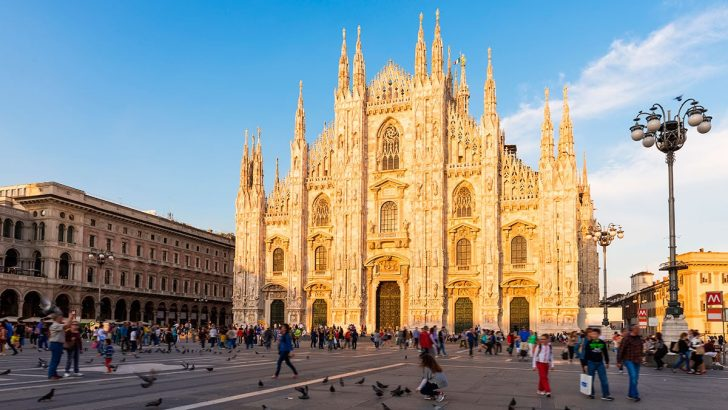
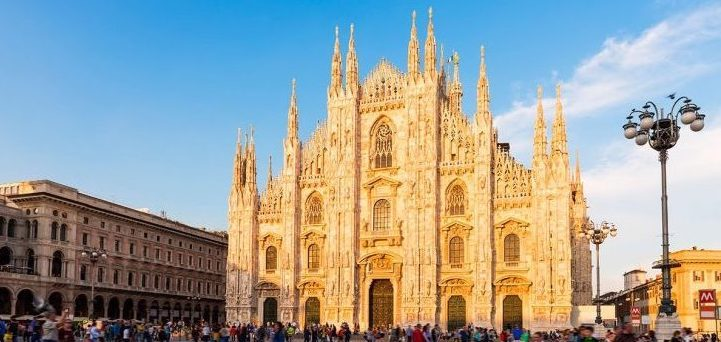
day seven

diff --git a/dayseven.html b/dayseven.html
@@ -47,11 +47,11 @@
 			</div>
 
 			<div class="day">
-			<h3><a href="#daysix">Day Six </a><br>Mon 31st Dec <br>Amsterdam</h3>
+			<h3><a href="daysix.html#daysix">Day Six </a><br>Mon 31st Dec <br>Amsterdam</h3>
 			</div>
 		
 			<div class="day">
-			<h3><span class="notyet">Day Seven </span><br>Tues 1st Jan <br>Amsterdam to Milan</h3>
+			<h3><a href="#dayseven">Day Seven </a><br>Tues 1st Jan <br>Amsterdam to Milan</h3>
 			</div>
 
 			<div class="day">
@@ -79,100 +79,57 @@
 
 	<div class="photos">
 
-  		<!-- Day Six Photos -->
+  		<!-- Day Seven Photos -->
 
         <br>
         
-        <h2 id="daysix">Day Six - Part Une</h2>
+        <h2 id="dayseven">Day Seven</h2>
 
-            <div class="gallery ib">                                                
-            <a target="_blank" href="resources/daysix/IMG_1364.JPG">
-            <img src="resources/daysix/IMG_1364.JPG" alt="Flower Market">
-            </a>
-            <div class="desc">There are flower market stalls everywhere.</div>
-            </div>
-
-            <div class="gallery ib">                                                
-            <a target="_blank" href="resources/daysix/IMG_1365.JPG">
-            <img src="resources/daysix/IMG_1365.JPG" alt="Amsterdam Canal View">
-            </a>
-            <div class="desc">Canalside view</div>
-            </div>
-
-            <div class="gallery ib">                                                
-            <a target="_blank" href="resources/daysix/IMG_1366.JPG">
-            <img src="resources/daysix/IMG_1366.JPG" alt="Amsterdam Street">
-            </a>
-            <div class="desc">Amsterdam streets</div>
-            </div>
-
-            <div class="gallery ib">                                                
-            <a target="_blank" href="resources/daysix/IMG_1370.JPG">
-            <img src="resources/daysix/IMG_1370.JPG" alt="Amsterdam Ducks">
-            </a>
-            <div class="desc">Found these two sneaking around a sinking boat.</div>
-            </div>
-
-            <div class="gallery ib">                                                
-            <a target="_blank" href="resources/daysix/IMG_1367.JPG">
-            <img src="resources/daysix/IMG_1367.JPG" alt="Amsterdam Street">
-            </a>
-            <div class="desc">Beautiful appartments</div>
-            </div>
-  	
-            <div class="gallery ib">                                                
-            <a target="_blank" href="resources/daysix/IMG_1371.JPG">
-            <img src="resources/daysix/IMG_1371.JPG" alt="Home Street">
-            </a>
-            <div class="desc">Our street</div>
-            </div>
-
-            <div class="gallery ib">                                                
-            <a target="_blank" href="resources/daysix/IMG_1374.JPG">
-            <img src="resources/daysix/IMG_1374.JPG" alt="Graffiti">
-            </a>
-            <div class="desc">Aliens R Real</div>
-            </div>
-
-            <div class="gallery ib">                                                
-            <a target="_blank" href="resources/daysix/IMG_1377.JPG">
-            <img src="resources/daysix/IMG_1377.JPG" alt="Mosaic Bunny">
-            </a>
-            <div class="desc">Mosaic bunny</div>
-            </div>
-
-            <div class="gallery ib">                                                
-            <a target="_blank" href="resources/daysix/IMG_1378.JPG">
-            <img src="resources/daysix/IMG_1378.JPG" alt="Ice Skating">
-            </a>
-            <div class="desc">Ice Skating</div>
-            </div>
-
-            <div class="gallery ib">                                                
-            <a target="_blank" href="resources/daysix/IMG_1379.JPG">
-            <img src="resources/daysix/IMG_1379.JPG" alt="Brian">
-            </a>
-            <div class="desc">I spy Brian</div>
-            </div>
-
-            <div class="gallery ib">                                                
-            <a target="_blank" href="resources/daysix/IMG_1381.JPG">
-            <img src="resources/daysix/IMG_1381.JPG" alt="Seasons Greetings">
-            </a>
-            <div class="desc">Seasons Greetings</div>
-            </div>
-
-        <h2 id="NYE">Day Six - Part Deux - New Year's Eve</h2>
-
-            <div class="gallery ib">                                                
-            <a target="_blank" href="resources/daysix/IMG_1388.JPG">
-            <img src="resources/daysix/IMG_1388.JPG" alt="Ice Skating">
-            </a>
-            <div class="desc">Ice Skating</div>
-            </div>
 
             <div class="gallery ib"> 
             <iframe src="https://giphy.com/embed/LXfuEfYuPCXtaHCo6S" width="360" height="480" frameBorder="0" class="giphy-embed" allowFullScreen></iframe><div class="desc">Ready to go!</div></div>
+
+            <div class="gallery ib">
+            <a target="_blank" href="resources/dayseven/IMG_1410.JPG">
+            <img src="resources/dayseven/IMG_1410.JPG" alt="Swiss Alps">
+            </a>
+            <div class="desc">Flying over the Swiss Alps</div>
+            </div>
+
+            <div class="gallery ib">
+            <a target="_blank" href="resources/dayseven/IMG_1443.JPG">
+            <img src="resources/dayseven/IMG_1443.JPG" alt="Italian Restaurant">
+            </a>
+            <div class="desc">Finding a hidden gem.</div>
+            </div>
+
+            <div class="gallery ib">
+            <a target="_blank" href="resources/dayseven/IMG_1445.JPG">
+            <img src="resources/dayseven/IMG_1445.JPG" alt="Italian Restaurant">
+            </a>
+            <div class="desc">The specials</div>
+            </div>
+
+            <div class="gallery ib">
+            <a target="_blank" href="resources/dayseven/IMG_1437.JPG">
+            <img src="resources/dayseven/IMG_1437.JPG" alt="Italian Restaurant">
+            </a>
+            <div class="desc">An Italian dinner</div>
+            </div>
+
+            <div class="gallery ib">
+            <a target="_blank" href="resources/dayseven/IMG_1438.JPG">
+            <img src="resources/dayseven/IMG_1438.JPG" alt="Italian Restaurant">
+            </a>
+            <div class="desc">Cosy restaurant</div>
+            </div>
+
+            <div class="gallery ib">
+            <a target="_blank" href="resources/dayseven/IMG_1440.JPG">
+            <img src="resources/dayseven/IMG_1440.JPG" alt="Italian Pizza">
+            </a>
+            <div class="desc">The pizza to end all pizza.</div>
+            </div>
 
 	</div>	
 	<br>

diff --git a/index.html b/index.html
@@ -60,7 +60,7 @@
 			</div>
 		
 			<div class="day">
-			<h3><span class="notyet">Day Seven </span><br>Tues 1st Jan <br>Amsterdam to Milan</h3>
+			<h3><a href="#dayseven">Day Seven </a><br>Tues 1st Jan <br>Amsterdam to Milan</h3>
 			</div>
 
 			<div class="day">
@@ -212,6 +212,8 @@
 
   		<p class="daysix">A few photos <a href="daysix.html#daysix">here</a>. Stay tuned for Part Deux.</p>
 
+  		<br>
+
   		<h2 id="daysix">Day Six - Part Deux - New Year's Eve</h2>
 
   		<div class="gallery left">
@@ -221,15 +223,34 @@
   		<div class="desc">Ice Skating!</div>
   		</div>
 
+  		<br>
   		<p class="daysix">This day really needed to be split into two, as we came home, had a nap, got changed and then got ready for the proceedings in the evening. Fireworks have been geting progressively more constant. We decide to just walk into the centre as Amsterdam public transport stops at 8pm on New Year's Eve. This is absolutely baffling to me because in London NYE is the one night of the year that transport is free and it runs all night to ensure that people get home safely. In Amsterdam they seem to take the opposite approach, let everyone buy fireworks for 3 days only and do not get involved with the goings on in the street. People are letting off fireworks everywhere, <a target="_blank" href="resources/daysix/IMG_1428.JPG">there are small fires in the street</a>, there don't seem to be any "organised" displays, just a cacophony of pops and bangs from every street.</p>
   		<p class="daysix"> We walk into Museumplein (a large square in the centre) catching Pokémon en route, when we get there we see the ice skating rink that we saw earlier, this time Brian actually obliges and I am delighted to go whizzing round the rink at 11.30pm on New Year's Eve, surprisingly it's not too busy (I think most people know their limits and the drunk onlookers don't think they can handle their drink <em>and</em> their ice skates. Brian and I were off to a shaky start, we could hardly balance but I quickly found my feet and <a target="_blank" href="resources/daysix/IMG_1391 copy.JPG">Brian quickly found a chair</a> !! The second he got this chair he sped off as fast as lightning, I still cannot believe that a chair completely turned around his ice skating experience. This was a great way to spend the evening.</p>
-  		<p class="daysix">We eventually tire of the skating and turn to the crowds for the last few minutes to get ready for the fireworks, it is absolute chaos, the fireworks didn't really have a start or end time (I have no doubt that they're still happening) and they sprung up from every possible angle. It was fun, the walk back to our flat was a little scary as the fireworks were just going off in every direction but we made it home eventually. It was the perfect end to our Amsterdam trip, ready to pack for Milan tomorrow.</p>
+  		<p class="daysix">We eventually tire of the skating and turn to the crowds for the last few minutes to get ready for the fireworks, it is absolute chaos, the fireworks didn't really have a start or end time (I have no doubt that they're still happening) and they sprung up from every possible angle. It was fun, the walk back to our flat was a little scary as the fireworks were just going off in every direction but we made it home eventually. We stopped off in a little shop for snacks and the lady offered us an <a href="https://www.google.com/search?q=dutch+oliebollen&oq=dutch+olle&aqs=chrome.1.69i57j0.2859j0j7&sourceid=chrome&ie=UTF-8">Oliebollen</a> as a gift, it was absolutely delicious, she said it's a New Year's Eve tradition. It was the perfect end to our Amsterdam trip, ready to pack for Milan tomorrow.</p>
 
   		<p class="daysix">More photos <a href="daysix.html#NYE">here</a>.</p>
 
 		<br>
 		<br>
-		</div>	
+		</div>
+
+		<br>
+		<br>
+
+		<h2 id="dayseven">Day Seven</h2>
+
+  		<div class="gallery right"> 
+        <iframe src="https://giphy.com/embed/LXfuEfYuPCXtaHCo6S" width="360" height="480" frameBorder="0" class="giphy-embed" allowFullScreen></iframe><div class="desc">Ready to go!</div></div>
+
+  		<p class="dayseven">Very smooth journey to Milan today. The Amsterdam airport felt sleepy and empty and we breezed through all the way to Milan with no issues, I picked up 3 boxes of stroopwafels to keep me going. On the flight we flew over the Swiss alps which was a beautiful and breathtaking sight, snowy mountains as far as you can see.</p>
+
+  		<p class="dayseven"> On our arrival there was no border control which was weird, we got to the flat and it is really nice and modern, we're told that the Google headquarters are next door, also we later discover that we're on a Pokéstop which takes up the whole evening.</p>
+
+  		<p class="dayseven">Brian has been determined to go to an Italian restaurant since before the trip and he tells me that he's found a place that we're going to that's close to the flat. As we're walking there I hope it's the place surrounded by lights because it looks cosy and it turns out to be the same ! It's a sweet little place on a corner, we both get pizza and Brian is absolutely astounded at this pizza. It has a crispy base but it's soft and thick and also a random shape and covered in toppings. He is absolutely devastated that we are only here for 2 days as this is the best pizza he has ever had. We go for a little walk afterwards to try and make up for the mountain of pizza but quickly head back to the flat as it's so cold. Tomorrow I hope we can see some sights but as always if we just end up going to the pizza place and playing Pokémon that's ok too.</p>
+
+  		<p class="dayseven">Some photos <a href="dayseven.html#dayseven">here</a>.</p>
+
+		<br>
 		<br>
 
 </body>

diff --git a/resources/style.css b/resources/style.css
@@ -1,5 +1,6 @@
 body{
 	font-family: 'Josefin Slab', serif;
+	margin-bottom: 20px;
 	}
 
 h1{
@@ -43,9 +44,13 @@ a:hover{
 	color: red;
 }
 
+.amsterdam{
+	width:50%;
+}
+
 .milan{
 	float: right;
-	max-width: 700px; /* To format the Milan picture for different widths */
+	width:50%;
 }
 
 #about{

diff --git a/dayfive.html b/dayfive.html
@@ -52,7 +52,7 @@
 			</div>
 		
 			<div class="day">
-			<h3><span class="notyet">Day Seven </span><br>Tues 1st Jan <br>Amsterdam to Milan</h3>
+			<h3><a href="dayseven.html#dayseven">Day Seven </a><br>Tues 1st Jan <br>Amsterdam to Milan</h3>
 			</div>
 
 			<div class="day">

diff --git a/dayfour.html b/dayfour.html
@@ -52,7 +52,7 @@
 			</div>
 		
 			<div class="day">
-			<h3><span class="notyet">Day Seven </span><br>Tues 1st Jan <br>Amsterdam to Milan</h3>
+			<h3><a href="dayseven.html#dayseven">Day Seven </a><br>Tues 1st Jan <br>Amsterdam to Milan</h3>
 			</div>
 
 			<div class="day">

diff --git a/dayone.html b/dayone.html
@@ -52,7 +52,7 @@
 			</div>
 		
 			<div class="day">
-			<h3><span class="notyet">Day Seven </span><br>Tues 1st Jan <br>Amsterdam to Milan</h3>
+			<h3><a href="dayseven.html#dayseven">Day Seven </a><br>Tues 1st Jan <br>Amsterdam to Milan</h3>
 			</div>
 
 			<div class="day">

diff --git a/daysix.html b/daysix.html
@@ -51,7 +51,7 @@
 			</div>
 		
 			<div class="day">
-			<h3><span class="notyet">Day Seven </span><br>Tues 1st Jan <br>Amsterdam to Milan</h3>
+			<h3><a href="dayseven.html#dayseven">Day Seven </a><br>Tues 1st Jan <br>Amsterdam to Milan</h3>
 			</div>
 
 			<div class="day">

diff --git a/daythree.html b/daythree.html
@@ -51,7 +51,7 @@
 			</div>
 		
 			<div class="day">
-			<h3><span class="notyet">Day Seven </span><br>Tues 1st Jan <br>Amsterdam to Milan</h3>
+			<h3><a href="dayseven.html#dayseven">Day Seven </a><br>Tues 1st Jan <br>Amsterdam to Milan</h3>
 			</div>
 
 			<div class="day">

diff --git a/daytwo.html b/daytwo.html
@@ -52,7 +52,7 @@
 			</div>
 		
 			<div class="day">
-			<h3><span class="notyet">Day Seven </span><br>Tues 1st Jan <br>Amsterdam to Milan</h3>
+			<h3><a href="dayseven.html#dayseven">Day Seven </a><br>Tues 1st Jan <br>Amsterdam to Milan</h3>
 			</div>
 
 			<div class="day">
